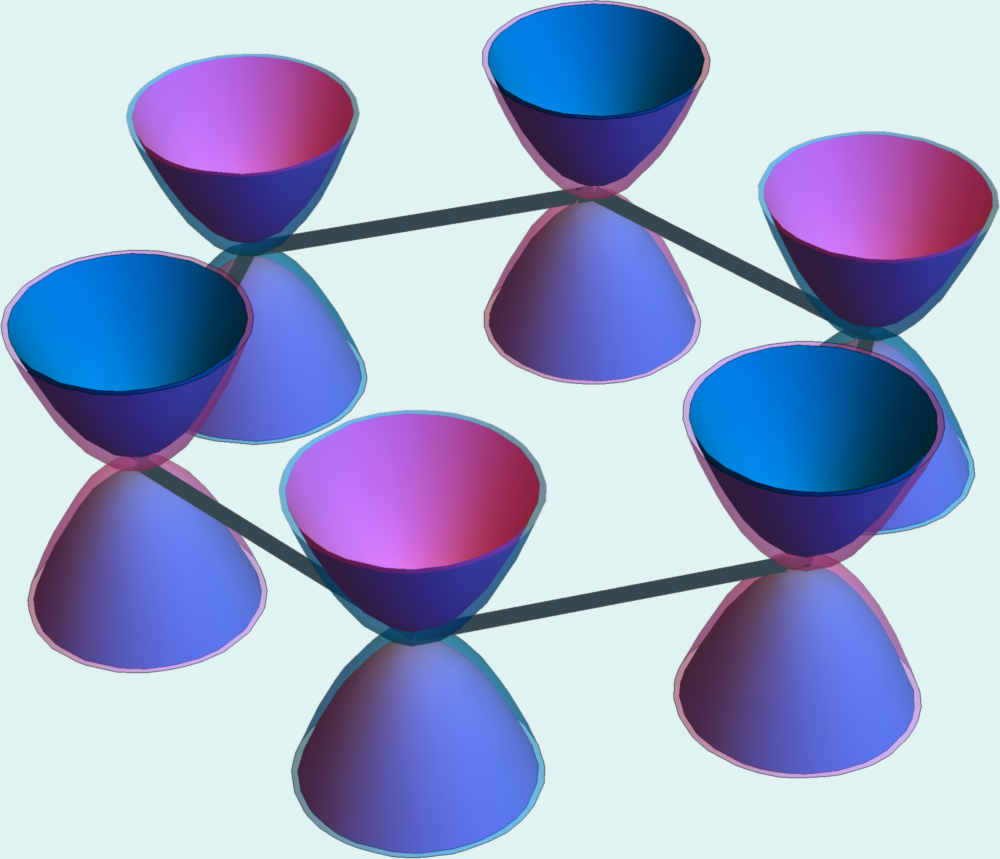
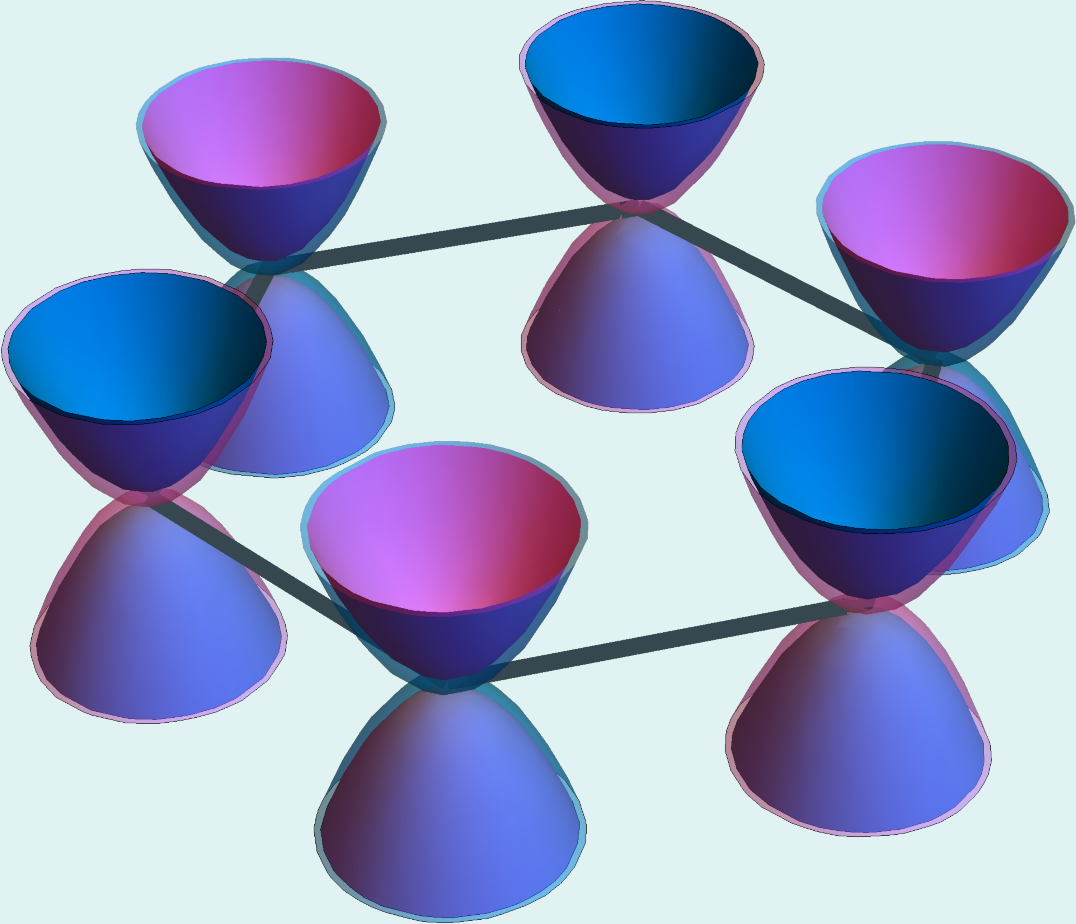
Add better resolution lattice figure.

Changed region(s): [[0.992, 0.2119, 1.0, 0.2421]]

diff --git a/_assets/stylesheets/_style.sass b/_assets/stylesheets/_style.sass
@@ -32,16 +32,8 @@ article.deck-container
       +background-image('dichalcogenides/crystal', (4 / 5) * $width, (4 / 5) * $height)
 
   .lattice-image
-    $width: 500px
-    $height: 429px
-
-    +background-image('dichalcogenides/lattice', (1 / 2) * $width, (1 / 2) * $height)
-
-    @media #{$medium-up}
-      +background-image('dichalcogenides/lattice', $width, $height)
-
-    @media #{$xga-up}
-      +background-image('dichalcogenides/lattice', (4 / 5) * $width, (4 / 5) * $height)
+    $sizes: (($small-up, 250px), ($medium-up, 500px), ($xga-up, 400px), ($wuxga-up, 700px))
+    +bg-img('dichalcogenides/lattice', 1076px, 924px, $sizes)
 
   .outline
     @media #{$xga-up}
